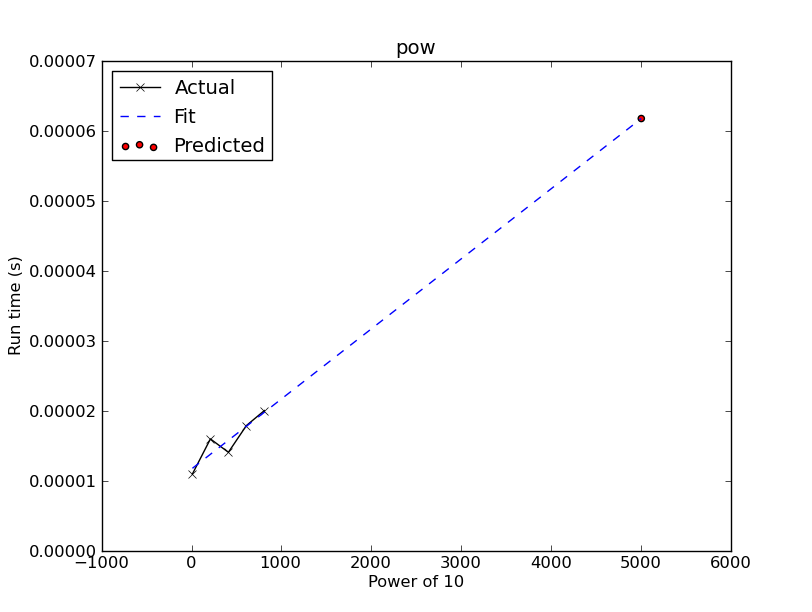
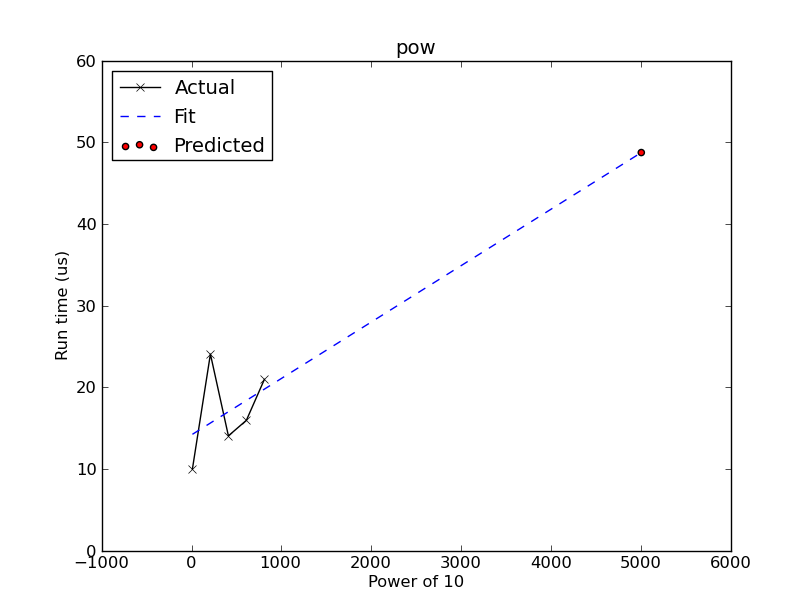
added more options for plotting and updated doc

diff --git a/astropy/utils/timer.py b/astropy/utils/timer.py
@@ -13,6 +13,7 @@ import numpy as np
 
 # LOCAL
 from . import OrderedDict
+from .. import units as u
 from ..logger import log
 
 
@@ -47,10 +48,11 @@ def timefunc(num_tries=1, verbose=True):
 
     Examples
     --------
-    To add timer to time `np.log` for 100 times with
+    To add timer to time `numpy.log` for 100 times with
     verbose output::
 
         import numpy as np
+        from astropy.utils.timer import timefunc
 
         @timefunc(100)
         def timed_log(x):
@@ -99,6 +101,8 @@ class RunTimePredictor(object):
 
     Examples
     --------
+    >>> from astropy.utils.timer import RunTimePredictor
+
     Set up a predictor for ``10**X``:
 
     >>> p = RunTimePredictor(pow, 10)
@@ -109,10 +113,10 @@ class RunTimePredictor(object):
     >>> p.time_func(range(10, 1000, 200))
     >>> p.results
     {10: 10000000000,
-     210: 10000000000...,
-     410: 10000000000...,
-     610: 10000000000...,
-     810: 10000000000...}
+     210: 10000000000...L,
+     410: 10000000000...L,
+     610: 10000000000...L,
+     810: 10000000000...L}
 
     Fit a straight line assuming ``arg**1`` relationship
     (coefficients are returned):
@@ -136,7 +140,7 @@ class RunTimePredictor(object):
     When the changing argument is not the last, e.g.,
     `pow(x, 2)`, something like this might work:
 
-    >>> p = timer.RunTimePredictor(lambda x: pow(x, 2))
+    >>> p = RunTimePredictor(lambda x: pow(x, 2))
     >>> p.time_func([2,3,5])
     >>> p.results
     {2: 4, 3: 9, 5: 25}
@@ -196,6 +200,7 @@ class RunTimePredictor(object):
             arglist = [arglist]
         dummy = map(self._cache_time, arglist)
 
+    # FUTURE: Implement N^x * O(log(N)) fancy fitting.
     def do_fit(self, power=1, deg=1, min_datapoints=3):
         """Fit a function to the lists of arguments and
         their respective run time in the cache.
@@ -259,13 +264,17 @@ class RunTimePredictor(object):
             self._cache_est[arg] = t_est
         return t_est
 
-    def plot(self, xlabeltext='args', save_as=''):  # pragma: no cover
+    def plot(self, xscale='linear', yscale='linear', xlabeltext='args',
+             save_as=''):  # pragma: no cover
         """Plot prediction.
 
         .. note:: Uses :mod:`matplotlib`.
 
         Parameters
         ----------
+        xscale, yscale : {'linear', 'log', 'symlog'}
+            Scaling for `matplotlib.axes.Axes`.
+
         xlabeltext : str, optional
             Text for X-label.
 
@@ -277,9 +286,18 @@ class RunTimePredictor(object):
 
         # Actual data
         x_arr = sorted(self._cache_good)
-        y_arr = [self._cache_good[x] for x in x_arr]
+        y_arr = np.array([self._cache_good[x] for x in x_arr])
 
         assert len(x_arr) > 1, 'Insufficient data for plotting'
+
+        # Auto-ranging
+        qmean = y_arr.mean() * u.second
+        for cur_u in (u.minute, u.second, u.millisecond, u.microsecond,
+                      u.nanosecond):
+            val = qmean.to(cur_u).value
+            if 1000 > val >= 1:
+                break
+        y_arr = (y_arr * u.second).to(cur_u).value
 
         fig, ax = plt.subplots()
         ax.plot(x_arr, y_arr, 'kx-', label='Actual')
@@ -287,15 +305,20 @@ class RunTimePredictor(object):
         # Fitted data
         if self._fit_func is not None:
             x_est = self._cache_est.keys()
-            ax.scatter(x_est, self._cache_est.values(), marker='o', c='r',
-                       label='Predicted')
+            y_est = (np.array(self._cache_est.values()) *
+                     u.second).to(cur_u).value
+            ax.scatter(x_est, y_est, marker='o', c='r', label='Predicted')
 
             x_fit = np.array(sorted(x_arr + x_est))
-            y_fit = self._fit_func(x_fit**self._power)
+            y_fit = (self._fit_func(x_fit**self._power) *
+                     u.second).to(cur_u).value
             ax.plot(x_fit, y_fit, 'b--', label='Fit')
 
+        ax.set_xscale(xscale)
+        ax.set_yscale(yscale)
+
         ax.set_xlabel(xlabeltext)
-        ax.set_ylabel('Run time (s)')
+        ax.set_ylabel('Run time ({})'.format(cur_u.to_string()))
         ax.set_title(self._funcname)
         ax.legend(loc='best', numpoints=1)
 
